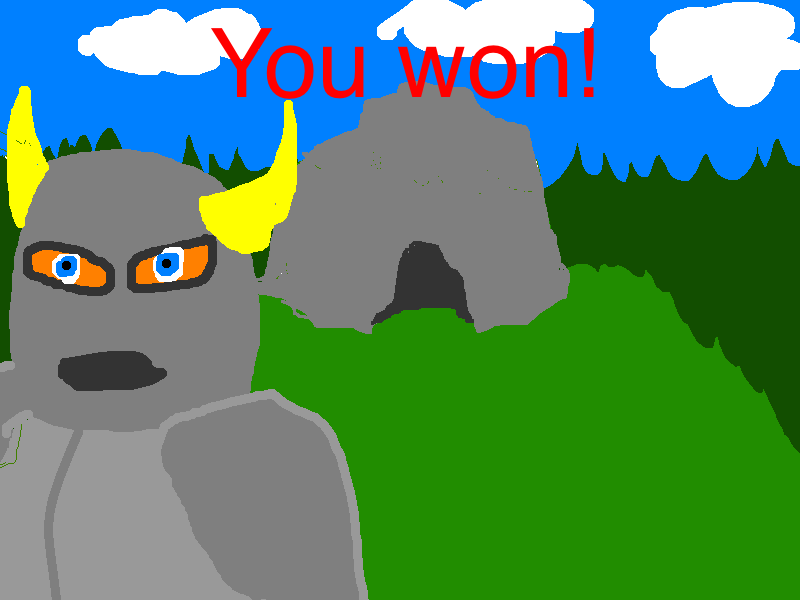
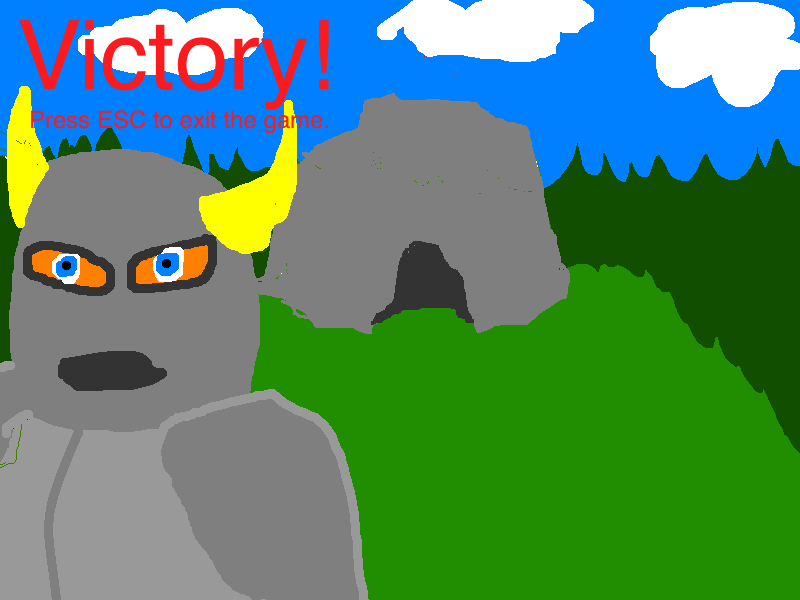
Some refactoring, and improved graphics

Changed region(s): [[0.0, 0.03, 0.4688, 0.24], [0.5, 0.03, 0.75, 0.18]]

diff --git a/src/com/folkol/paskhack/Monster.java b/src/com/folkol/paskhack/Monster.java
@@ -10,6 +10,9 @@ import org.newdawn.slick.Sound;
 import org.newdawn.slick.SpriteSheet;
 
 public class Monster extends Entity {
+    private static final int CLOSE_ENOUGH_TO_HOME = 5;
+    private static final int AGGRO_RANGE  = 250;
+    private static final int PREFERRED_FIGHTING_DISTANCE = 40;
     private Animation walk;
     private Animation stand;
     private Animation attack;
@@ -53,13 +56,13 @@ public class Monster extends Entity {
         float distance = distance(currentScene.hero);
         float homeDistance = (float) Math.sqrt(Math.pow(x - homeX, 2) + Math.pow(y - homeY, 2));
         dx = dy = 0;
-        if (distance > 40 && distance < 250 && homeDistance < 400 && currentScene.hero.isAlive()) {
+        if (distance > PREFERRED_FIGHTING_DISTANCE && distance < AGGRO_RANGE && currentScene.hero.isAlive()) {
             float signX = currentScene.hero.x - x;
             float signY = currentScene.hero.y - y;
             dx = Math.signum(signX) * maxspeed;
             dy = Math.signum(signY) * maxspeed;
             currentAnimation = walk;
-        } else if (homeDistance > 20) {
+        } else if (homeDistance > CLOSE_ENOUGH_TO_HOME) {
             float signX = homeX - x;
             float signY = homeY - y;
             dx = (float) (Math.signum(signX) * maxspeed * 0.5);

diff --git a/src/com/folkol/paskhack/Cave.java b/src/com/folkol/paskhack/Cave.java
@@ -29,8 +29,13 @@ public class Cave extends Scene {
             String objectType = map.getObjectType(0, i);
             int objectX = map.getObjectX(0, i);
             int objectY = map.getObjectY(0, i);
-            if ("monster".equals(objectType)) {
+            if ("boss".equals(objectType)) {
                 Boss monster = new Boss(this);
+                monster.setX(objectX);
+                monster.setY(objectY);
+                entities.add(monster);
+            } else if ("monster".equals(objectType)) {
+                Monster monster = new Monster(this);
                 monster.setX(objectX);
                 monster.setY(objectY);
                 entities.add(monster);
